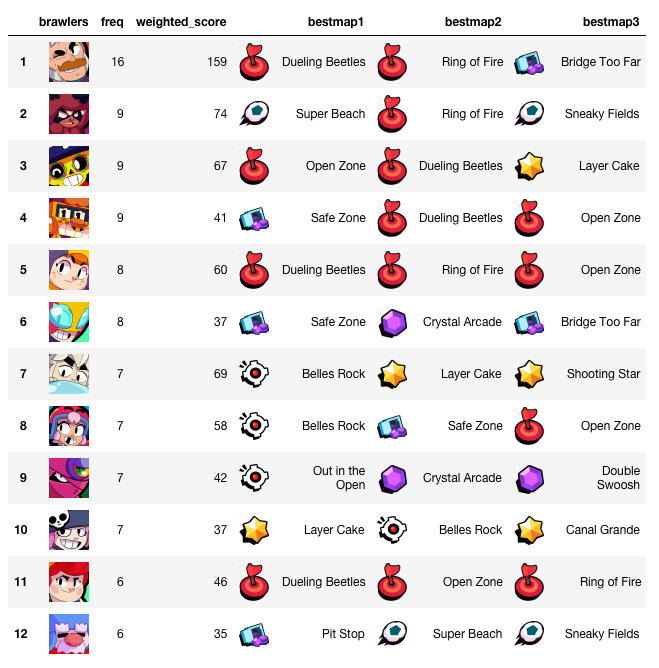
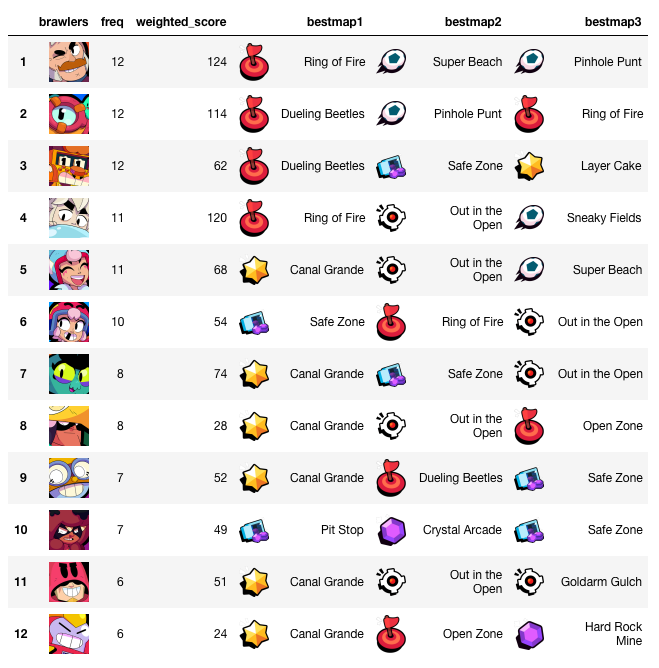
update infographics

diff --git a/maps/best_brawlers_map.py b/maps/best_brawlers_map.py
@@ -13,7 +13,7 @@ parser.add_argument('--refresh_stats', '-s', choices=['yes','no'], default='yes'
 parser.add_argument('--generate_infographics', '-g', choices=['yes','no'], default='yes', type=str, help='yes to obtain the latest infographics')
 parser.add_argument('--num_best_brawlers', '-n', default=12, type=int, help='Enter the number of best brawlers to find out the statistics for')
 parser.add_argument('--chrome_headless', '-c', choices=['yes','no'], default='yes', type=str, help='yes for headless chrome browser else no')
-parser.add_argument('--min_use_rates', '-m', default=1, type=float, help='minimum use rate. Range from 1-100')
+parser.add_argument('--min_usage_rank', '-m', default=40, type=float, help='minimum use rate. rank #')
 
 args = parser.parse_args()
 
@@ -24,7 +24,7 @@ refresh_maps = args.refresh_maps
 refresh_stats = args.refresh_stats 
 generate_infographics = args.generate_infographics
 num_best_brawlers = args.num_best_brawlers # Lists out the best brawlers
-min_use_rates = args.min_use_rates
+min_usage_rank = args.min_usage_rank
 
 ############
 ### Main ###
@@ -47,6 +47,7 @@ def initialize_driver():
     return driver
 
 if refresh_maps=='yes':
+    driver = initialize_driver()
     driver.get('https://brawlify.com/league/')
     print('Refreshing Map URLs with the updated Power League Maps')
     elems = driver.find_elements(By.XPATH, "//a[@href]")
@@ -60,8 +61,12 @@ if refresh_maps=='yes':
     links = [x for x in links if 'detail' in x]
 
     df = pd.DataFrame({'gamemodes':gamemodes, 'url':links[:18]})
-    df.to_csv('./map_urls.csv', index=False)
-    print('Saved csv to map_urls.csv')
+    if len(df)==18:
+        df.to_csv('./map_urls.csv', index=False)
+        print('Saved csv to map_urls.csv')
+    else:
+        print('Error with maps')
+        print(df)
 
 if refresh_stats=='yes':
     print('Refreshing data for best brawlers for each Map')
@@ -70,7 +75,7 @@ if refresh_stats=='yes':
 
     best_brawler_list = []
     win_rates_list = []
-    use_rates_list = []
+    usage_rank_list = []
     num_brawlers_list = []
     filter_list = []
 
@@ -80,46 +85,42 @@ if refresh_stats=='yes':
             url+='/600%2B'
         driver.get(url)
 
-        brawlers = driver.find_elements(By.XPATH,"//tr/td/img")
-        brawlers = [x.get_attribute('title') for x in brawlers]
+        stats = [x.text for x in driver.find_elements(By.CLASS_NAME,"row")]
+        stats = [y for y in stats if y!='']
+        stats = stats[2:]
+        stats = stats[0].split('\n')
 
-        values = driver.find_elements(By.XPATH,"//tr/td")
-        values = [x.text for x in values]
-        values = [x for x in values if x!='']
+        brawlers = stats[::7]
+        win_rates = stats[2::7]
+        usage_rank = stats[5::7]
+        usage_rank = [int(y.replace('#','')) for y in usage_rank]
 
-        win_rates, use_rates, mvp_rates = values[::3], values[1::3], values[2::3]
-        num_brawlers = len(win_rates)
-        if num_brawlers<threshold:
-            return [], [], [], num_brawlers
-
-        res = pd.DataFrame({'brawlers':brawlers, 'win_rates':win_rates, 'use_rates':use_rates}).sort_values(by=['win_rates'], ascending=False)
+        res = pd.DataFrame({'brawlers':brawlers, 'win_rates':win_rates, 'usage_rank':usage_rank}).sort_values(by=['win_rates'], ascending=False)
         num_brawlers = len(res)
-        res['use_rates'] = res['use_rates'].map(lambda x: float(x.replace('%','')))
-        res = res[res['use_rates']>min_use_rates].reset_index(drop=True)
-        res['use_rates'] = res['use_rates'].map(lambda x: str(x)+'%')
+        res = res[res['usage_rank']<=min_usage_rank].reset_index(drop=True)
 
         best_brawlers = list(res.head(num_best_brawlers)['brawlers'])
         win_rates = list(res.head(num_best_brawlers)['win_rates'])
-        use_rates = list(res.head(num_best_brawlers)['use_rates'])
+        usage_rank = list(res.head(num_best_brawlers)['usage_rank'])
         driver.quit()
-        return best_brawlers, win_rates, use_rates, num_brawlers
+        return best_brawlers, win_rates, usage_rank, num_brawlers
 
     for i in tqdm(range(len(df))):
-        best_brawlers, win_rates, use_rates, num_brawlers = scrape_info(df.iloc[i]['url'], filter_trophies='600+')
+        best_brawlers, win_rates, usage_rank, num_brawlers = scrape_info(df.iloc[i]['url'], filter_trophies='600+')
         filter_value = '600+'
         if win_rates==[]:
             print('[Retrying]:',df.iloc[i]['map'], '[num_brawlers]:',num_brawlers)
-            new_best_brawlers, new_win_rates, new_use_rates, new_num_brawlers = scrape_info(df.iloc[i]['url'], filter_trophies='', threshold=0)
+            new_best_brawlers, new_win_rates, new_usage_rank, new_num_brawlers = scrape_info(df.iloc[i]['url'], filter_trophies='', threshold=0)
             if new_num_brawlers > num_brawlers:
                 best_brawlers = new_best_brawlers
                 win_rates = new_win_rates
-                use_rates = new_use_rates
+                usage_rank = new_usage_rank
                 num_brawlers = new_num_brawlers
                 filter_value =''
 
         best_brawler_list.append(best_brawlers)
         win_rates_list.append(win_rates)
-        use_rates_list.append(use_rates)
+        usage_rank_list.append(usage_rank)
         num_brawlers_list.append(num_brawlers)
         filter_list.append(filter_value)
 
@@ -127,14 +128,14 @@ if refresh_stats=='yes':
 
     res_df['best_brawlers'] = best_brawler_list
     res_df['win_rates'] = win_rates_list
-    res_df['use_rates'] = use_rates_list
+    res_df['usage_rank'] = usage_rank_list
     res_df['num_brawlers'] = num_brawlers_list
     res_df['filter'] = filter_list
 
-    res_df = res_df[['gamemodes','map','best_brawlers','win_rates','use_rates','num_brawlers','filter']]
+    res_df = res_df[['gamemodes','map','best_brawlers','win_rates','usage_rank','num_brawlers','filter']]
     res_df['best_brawlers'] = res_df['best_brawlers'].map(lambda x: ', '.join(x))
     res_df['win_rates'] = res_df['win_rates'].map(lambda x: ', '.join(x))
-    res_df['use_rates'] = res_df['use_rates'].map(lambda x: ', '.join(x))
+    res_df['usage_rank'] = res_df['usage_rank'].map(lambda x: ', '.join([str(y) for y in x]))
 
     res_df.to_csv('./brawlers.csv', index=False)
     print(res_df)
@@ -154,4 +155,8 @@ if generate_infographics=='yes':
 
     # Generate Checklist for a specific team
     checklist_df = get_best_brawlers_checklist(best_brawlers_df, 'c9')#, team_tags = team_tags_tribe)
-    df_to_png(checklist_df, 'infographics/infographics_checklist.png')
+    df_to_png(checklist_df, 'infographics/infographics_checklist_team5.png')
+
+    # Generate Checklist for tribe
+    checklist_df = get_best_brawlers_checklist(best_brawlers_df, 'c9', team_tags = team_tags_tribe_c9)
+    df_to_png(checklist_df, 'infographics/infographics_checklist_team2.png')

diff --git a/aura.py b/aura.py
@@ -6,6 +6,7 @@ import string
 import argparse
 import requests
 import time
+from pandasql import sqldf
 
 c9_sheet = 'https://docs.google.com/spreadsheets/d/10PciVdfZCxNesRQEBSfdrC9E9zx_t1ZCrJUVtyEaiZ0/gviz/tq?tqx=out:csv&gid=1839516291'
 c9_brawlers_csv = 'output/c9aurac_brawler_levels.csv'
@@ -110,5 +111,35 @@ def read_csv(gsheet_url, brawler_levels_csv, output, clubname, color_scheme, tru
 color_scheme = ["#951F06", "#f8dcdc"]
 df1, na1  = read_csv(c9_sheet, c9_brawlers_csv, c9_output, 'C9', color_scheme)
 
+team1_q = """
+select team,
+       sum(trophies)/count(trophies) as avg_trophies,
+       sum(level_11s)/count(level_11s) as avg_11s,
+       group_concat(player) as players
+       from df1
+       group by team
+       order by avg_trophies desc, avg_11s desc
+"""
+team1 = sqldf(team1_q, globals())
+team1['players'] = team1['players'].map(lambda x: x.replace(',', ', '))
+team1['rank'] = team1.index+1
+team1 = team1[['rank','players','team','avg_trophies','avg_11s']]
+team1.to_csv('./output/c9_team_averages.csv', index=False)
+
 color_scheme2 = ["#072094", "#BBC3E8"]
 df2, na2 = read_csv(c6_sheet, c6_brawlers_csv, c6_output, 'C6', color_scheme2)
+
+team2_q = """
+select team,
+       sum(trophies)/count(trophies) as avg_trophies,
+       sum(level_11s)/count(level_11s) as avg_11s,
+       group_concat(player) as players
+       from df2
+       group by team
+       order by avg_trophies desc, avg_11s desc
+"""
+team2 = sqldf(team2_q, globals())
+team2['players'] = team2['players'].map(lambda x: x.replace(',', ', '))
+team2['rank'] = team2.index+1
+team2 = team2[['rank','players','team','avg_trophies','avg_11s']]
+team2.to_csv('./output/c6_team_averages.csv', index=False)

diff --git a/maps/cheatsheet_utils.py b/maps/cheatsheet_utils.py
@@ -170,10 +170,10 @@ def get_best_brawlers_map():
     df['win_rates'] = df['win_rates'].map(clean_string)
     df['win_rates'] = df['win_rates'].map(round_string)
     df['win_rates'] = df['win_rates'].map(lambda s: nth_repl(s, ", ","<br>",best_brawlers/3))
-    df['use_rates'] = df['use_rates'].map(clean_string)
-    df['use_rates'] = df['use_rates'].map(lambda s: nth_repl(s, ", ","<br>",best_brawlers/3))
+    df['usage_rank'] = df['usage_rank'].map(clean_string)
+    df['usage_rank'] = df['usage_rank'].map(lambda s: nth_repl(s, ", ","<br>",best_brawlers/3))
     df = df.rename(columns={"num_brawlers": "n"})
-    df = df[['gamemodes','map']+columns+['win_rates','use_rates','n','filter']]
+    df = df[['gamemodes','map']+columns+['win_rates','usage_rank','n','filter']]
     df.index += 1
 
     for col in columns+['gamemodes']:
@@ -263,7 +263,6 @@ def write_to_html_file(df, title='', filename='out.html'):
     tbody tr:nth-child(odd) {
       background: #f5f5f5;
     }
-
 </style>
 </head>
 <body>

diff --git a/main.py b/main.py
@@ -196,7 +196,7 @@ def get_player_stats(playertag, truncate_num):
     
     return res_df
 
-if __name__=='__main__':
+if True:
     parser = argparse.ArgumentParser()
     parser.add_argument('--tags', '-t', nargs="+", default=['2GV02VVQR','2GQRRVC20'], type=str, help='python -i main.py -t 2YQUPUYJ')
     parser.add_argument('--truncate',  default=60, type=int, help='yes to only list the top X brawlers, else list all')
@@ -205,8 +205,10 @@ if __name__=='__main__':
     parser.add_argument('--savelist', '-s', default=['2GV02VVQR','2GQRRVC20','LULY9VQ'], help='clubs to save CSV for')
 
     args = parser.parse_args()
-    
-    player_tags, club_tags, invalid_tags = classify_tags(args.tags)
+    tags_to_parse = args.tags
+    tags_to_parse = [x.rstrip().lstrip().replace(',','') for x in tags_to_parse]
+
+    player_tags, club_tags, invalid_tags = classify_tags(tags_to_parse)
     if len(invalid_tags)>0:
         print('Invalid Tags detected. Please check: ', invalid_tags)
 
